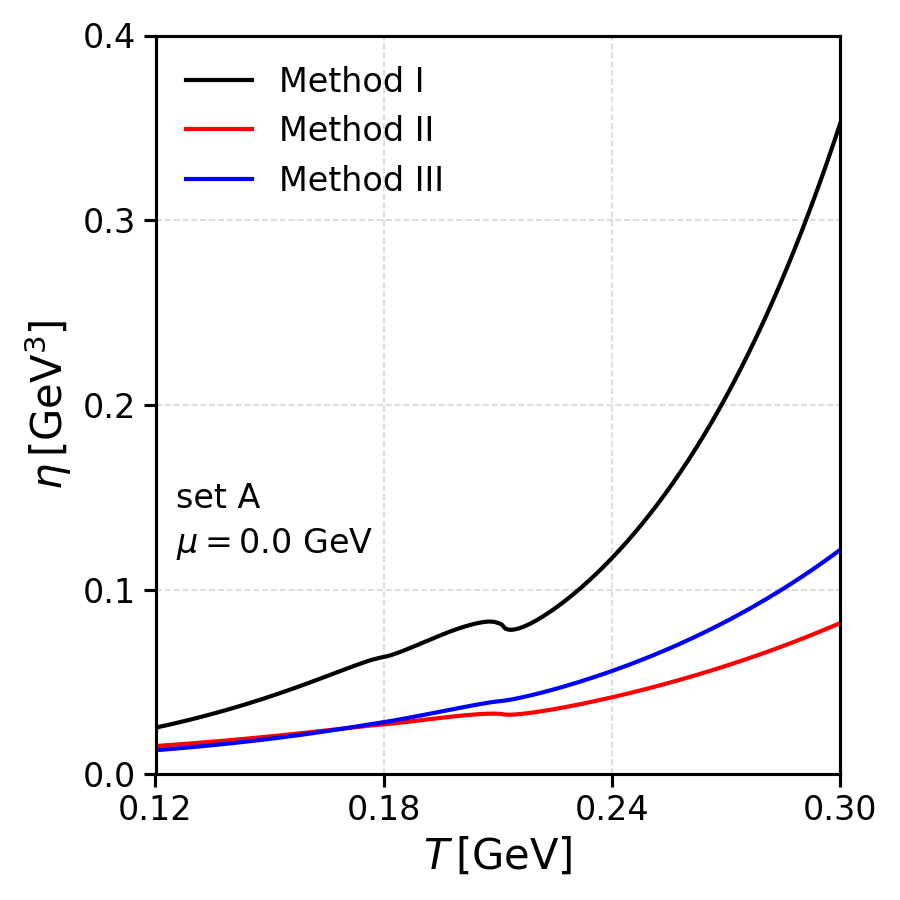
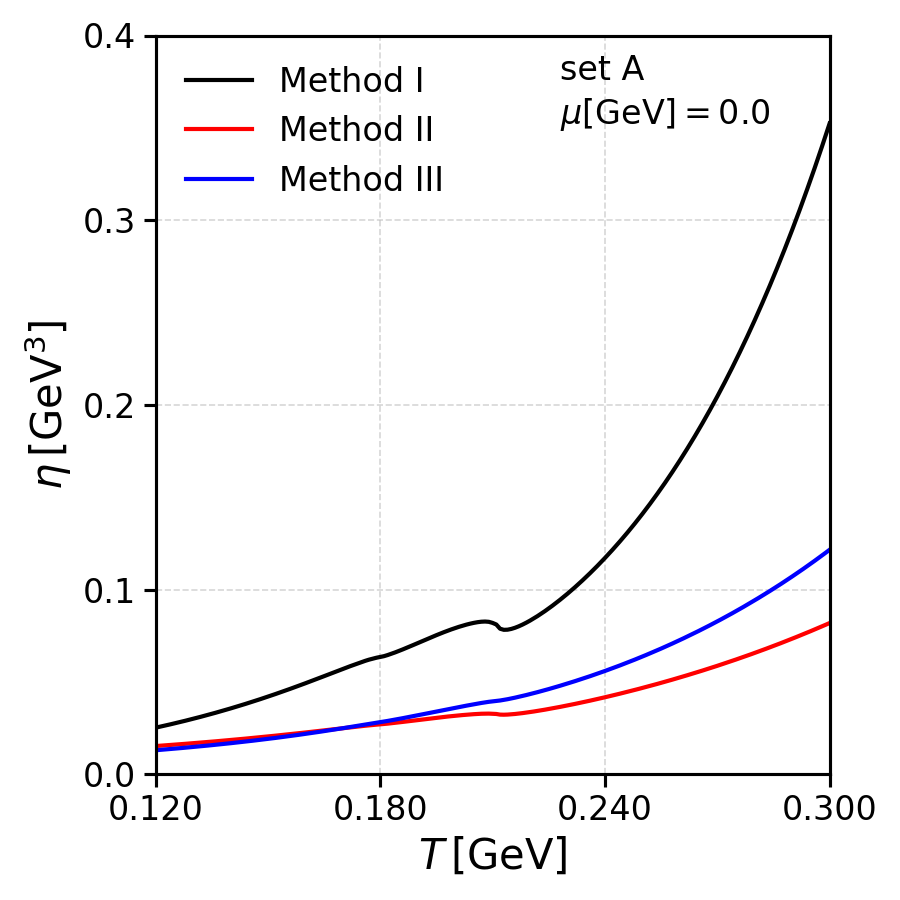
add eta plots passing through the CEP chemical potential; uniformize plots;

diff --git a/calculations/su3_3d_cutoff_transport_coefficients/plotting/generate_eta_plots.py b/calculations/su3_3d_cutoff_transport_coefficients/plotting/generate_eta_plots.py
@@ -44,14 +44,14 @@ plot_eta_vs_temp(
     ylim=(0.0, 0.4),
     x_num_ticks=4,
     y_num_ticks=5,
-    x_formatter="%.2f", 
+    x_formatter="%.3f", 
     y_formatter="%.1f",
     annotation_texts=[
         "set A",
-        r"$\mu = 0.0\ \mathrm{GeV}$",
+        r"$\mu [\mathrm{GeV}] = 0.0$",
     ],
-    x_annotation=0.03,
-    y_annotation=0.30,
+    x_annotation=0.60,
+    y_annotation=0.88,
 )
 
 plot_eta_over_s_vs_temp(
@@ -67,11 +67,80 @@ plot_eta_over_s_vs_temp(
     ylim=(0.0, 3.0),
     x_num_ticks=4,
     y_num_ticks=7,
-    x_formatter="%.2f", 
+    x_formatter="%.3f", 
     y_formatter="%.1f",
     annotation_texts=[
         "set A",
-        r"$\mu = 0.0\ \mathrm{GeV}$",
+        r"$\mu [\mathrm{GeV}] = 0.0$",
+    ],
+    x_annotation=0.05,
+    y_annotation=0.85,
+)
+
+
+datasets_cpcep = [
+    (
+        path_transport_data_folder + "ShearViscosity_setA_COMPLETE_COV_CPCEP.dat",  
+        r"Method I", 
+        "black", 
+        2, 
+        "-"
+    ),
+    (
+        path_transport_data_folder + "ShearViscosity_setA_KLEVANSKY_CPCEP.dat",  
+        r"Method II", 
+        "red", 
+        2, 
+        "-"
+    ),
+        (
+        path_transport_data_folder + "ShearViscosity_setA_ZHUANG_CPCEP.dat", 
+        r"Method III", 
+        "blue", 
+        2, 
+        "-"
+    ),
+]
+
+plot_eta_vs_temp(
+    fig_dpi,
+    fig_x_size,
+    fig_y_size,
+    datasets_cpcep,
+    path_output_plot_folder + "eta_vs_temp_setA_CPCEP.png",
+    "upper left",
+    xlim=(0.040, 0.300),
+    ylim=(0.0, 1.5),
+    x_num_ticks=5,
+    y_num_ticks=4,
+    x_formatter="%.3f", 
+    y_formatter="%.1f",
+    annotation_texts=[
+        "set A",
+        r"$\mu [\mathrm{GeV}] = \mu_{\mathrm{CEP}}$",
+    ],
+    x_annotation=0.60,
+    y_annotation=0.88,
+)
+
+plot_eta_over_s_vs_temp(
+    fig_dpi,
+    fig_x_size,
+    fig_y_size,
+    datasets_cpcep,
+    "su3_3d_cutoff_thermodynamics/fixed_chem_pot_temp/data/SU3NJL3DCutoffFixedChemPotTemp_SetA_TMin0p0_TMax0p5_CPU0p318434.dat",
+    path_output_plot_folder + "eta_over_s_vs_temp_setA_CPCEP.png",
+    include_kss_bound=True,
+    legend_loc="upper right",
+    xlim=(0.040, 0.300),
+    ylim=(0.0, 6.0),
+    x_num_ticks=5,
+    y_num_ticks=4,
+    x_formatter="%.3f", 
+    y_formatter="%.1f",
+    annotation_texts=[
+        "set A",
+        r"$\mu [\mathrm{GeV}] = \mu_{\mathrm{CEP}}$",
     ],
     x_annotation=0.05,
     y_annotation=0.85,
